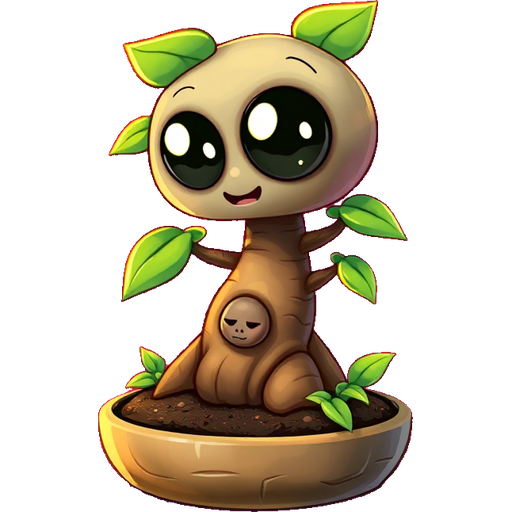
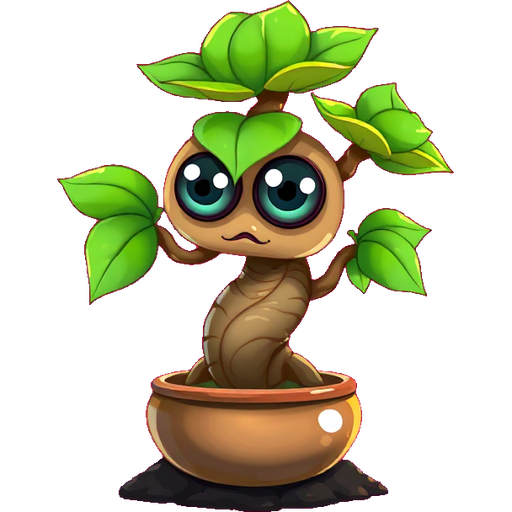
fix: re-roll three rares that shipped with a baked ground plane
berry_bush_2 had a mint cast-shadow plate, sky in both top corners and debris
floating clear of the plant, and was the only sprite in the cast with no soil
mound. bush_2 sat on a cream plate, vegetable_row_3 on a violet one. STYLE has
always said "standing on a small soil mound. No drop shadow, no cast shadow, no
shadow ellipse on the ground" — the model simply ignored it, and nothing in the
pipeline checks.

Where a brief's concept fought that instruction, the brief was reconciled rather
than just re-seeded: a bonsai "in a shallow glazed ceramic pot" gives the model
nothing to stand the pot on, so it invents a table. The pot now rests on the
mound. berry_bush_2 and vegetable_row_3 are anchored to soil explicitly.

bush_2 took two rolls. The first lost the tree — a one-eyed sprout in a pot, on
style but not on concept, which matters when the album labels it Bonsai. The
brief now leads with the trunk and names three foliage pads instead of burying
them behind adjectives.

52 sprites, no residue on either screen. The rares that still sit outside their
family's colour band are the ones whose names say so: Golden Tulip and Topiary
Crane richer, Silver Succulent and Lotus paler, Moonlit Bell darker.

diff --git a/tools/art/briefs.py b/tools/art/briefs.py
@@ -252,9 +252,9 @@ PROMPTS = {
         "shape, small soil base."
     ),
     "berry_bush_2": (
-        "Round bush creature bowing under UNUSUALLY LARGE glossy berries in deep ruby and "
-        "blackcurrant, branches heavy and arching with the weight, rich dark-green leaves, "
-        "wide pleased eyes, plump and abundant."
+        "Round compact bush creature bowing under UNUSUALLY LARGE glossy berries in deep ruby "
+        "and blackcurrant, short branches heavy and arching with the weight, rich dark-green "
+        "leaves, wide pleased eyes, plump and abundant, rooted in a small mound of dark soil."
     ),
     "succulent_2": (
         "Rosette succulent creature with thick pale sage leaves edged in FROSTED SILVER, a "
@@ -295,9 +295,10 @@ PROMPTS = {
         "curious eyes peeking through."
     ),
     "bush_2": (
-        "Miniature BONSAI TREE creature in a shallow glazed ceramic pot, gnarled sculpted "
-        "trunk with a small wise face in the bark, carefully layered cloud-like foliage pads, "
-        "deliberate and ancient-looking, calm closed eyes."
+        "Miniature BONSAI TREE creature: a thick gnarled trunk twisting up from a shallow "
+        "glazed ceramic pot, crowned by THREE distinct layered cloud-shaped pads of dense "
+        "green foliage, a small wise face set into the bark of the trunk with calm closed "
+        "eyes, ancient and deliberate. The pot rests on a small mound of dark soil."
     ),
     "hedge_4": (
         "Green hedge clipped into an elegant TOPIARY CRANE — long arched neck, folded wings, "
@@ -307,6 +308,6 @@ PROMPTS = {
     "vegetable_row_3": (
         "Short row of rare HEIRLOOM vegetables with unusual patterned skins — green-and-red "
         "striped tomatoes, purple-and-white striped beets, speckled squash — lush leafy tops, "
-        "proud little eyes on the front vegetable."
+        "proud little eyes on the front vegetable, growing from a low mound of dark soil."
     ),
 }
